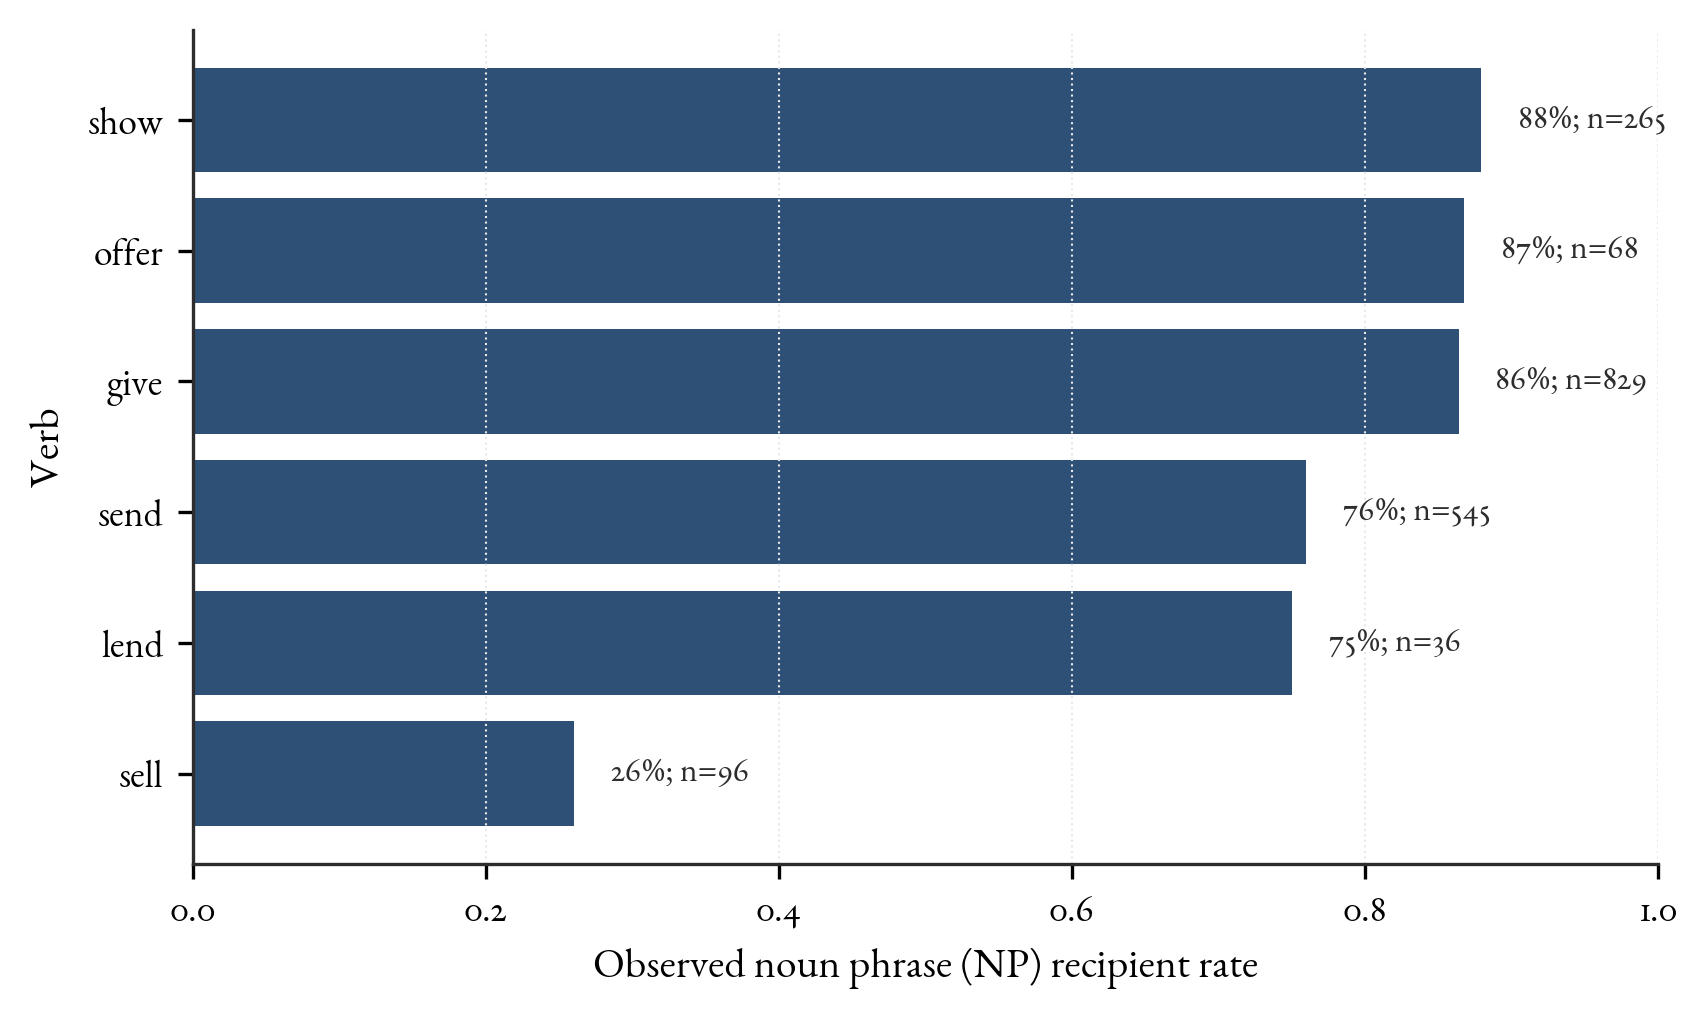
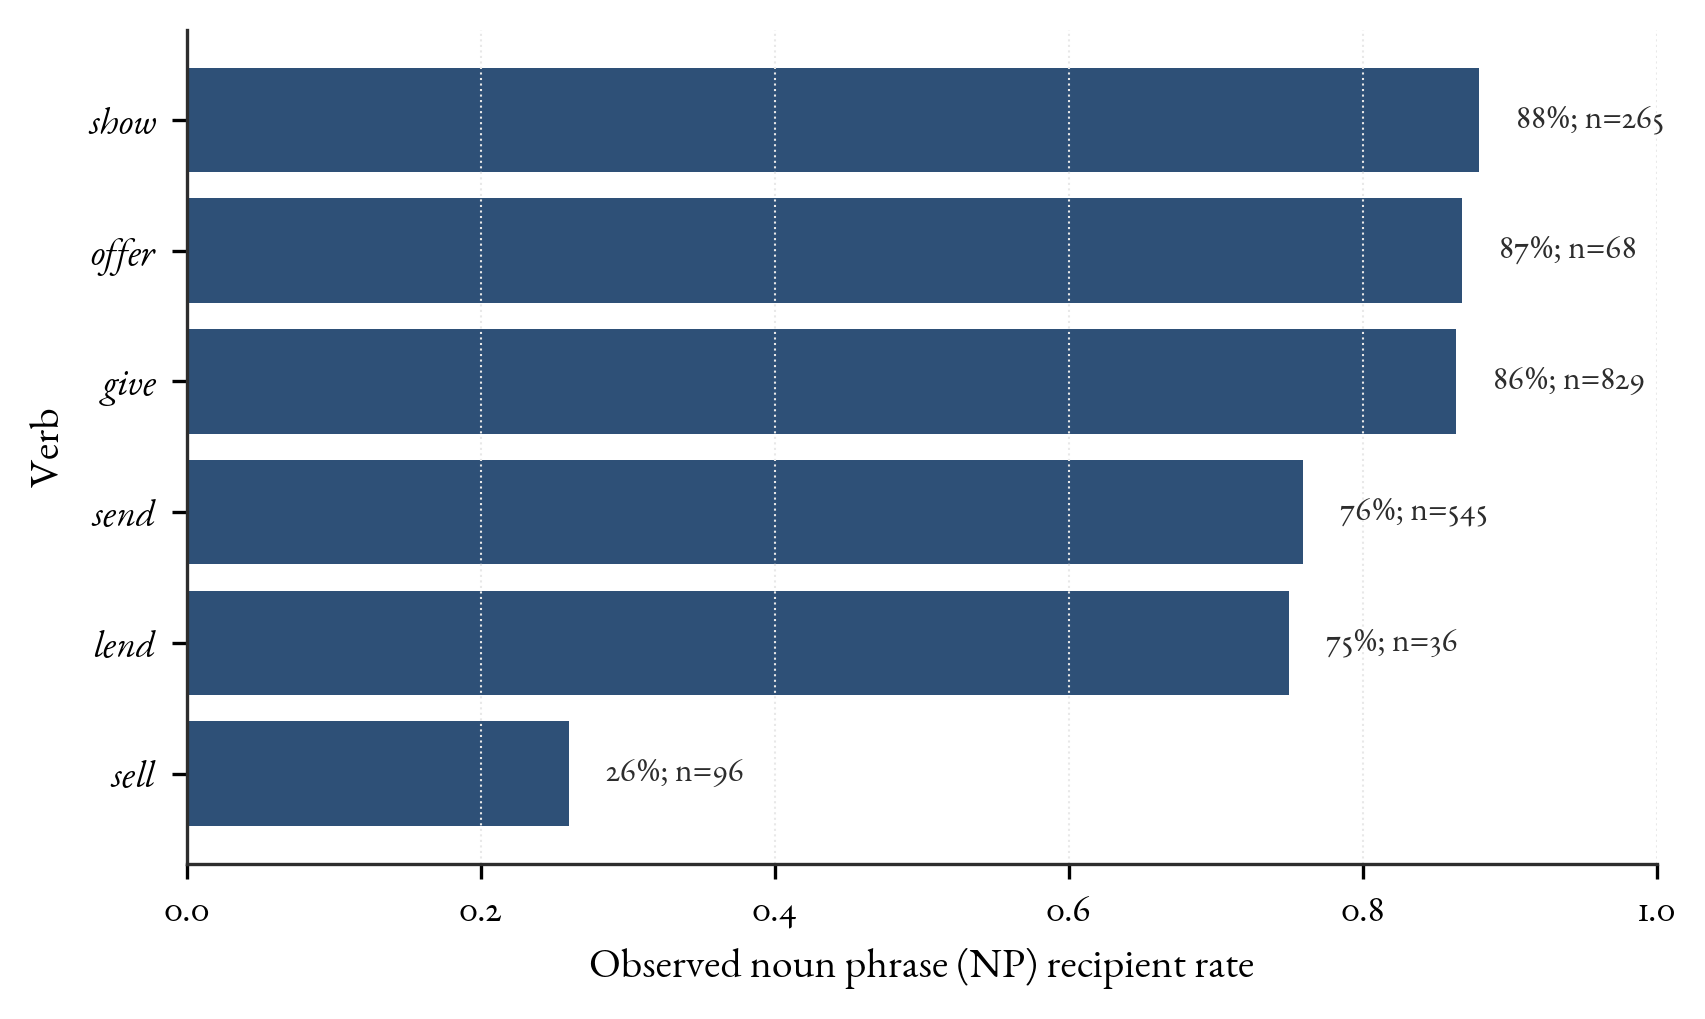
Add scope caveat, mention-style figure labels, and email draft gitignore
- Section 05: flag the six shared verbs as a scope limit on the transport
  claim; transport is tested on the high-frequency core only, not the
  marginal periphery
- Analysis 06: add mention() helper to render verb tick labels as serif
  italic (matching house-style \mention convention) via matplotlib mathtext;
  configure serif mathtext globally
- .gitignore: exclude notes/email-*.md to keep third-party correspondence
  out of the public repo
- DECISIONS.md: log transport scope caveat, figure mention style, and
  provenance/grammaticality framing decisions
- Figures and PDF rebuilt

diff --git a/analysis/06_denominator_and_figure_candidates.py b/analysis/06_denominator_and_figure_candidates.py
@@ -49,6 +49,15 @@ def percent_label(value: float) -> str:
     return f"{100 * value:.0f}%"
 
 
+def mention(verb: str) -> str:
+    """House-style mention: render a cited verb form in serif italic.
+
+    The figures are matplotlib, so \\mention maps to italic mathtext. Counts and
+    other roman text outside the math span stay upright.
+    """
+    return rf"$\mathit{{{verb}}}$"
+
+
 def make_transport_metrics(metrics: pd.DataFrame) -> None:
     labels = {
         "languageR_spoken_shared_core_marginal_to_bnc2014":
@@ -115,7 +124,7 @@ def make_observed_np_rate(verb_counts: pd.DataFrame) -> None:
     fig, ax = plt.subplots(figsize=(5.8, 3.5))
     y = range(len(data))
     ax.barh(y, data["np_rate"], color=COLORS["primary"], edgecolor="none")
-    ax.set_yticks(y, data["Verb"])
+    ax.set_yticks(y, [mention(v) for v in data["Verb"]])
     ax.set_xlim(0, 1)
     ax.set_xlabel("Observed noun phrase (NP) recipient rate")
     ax.set_ylabel("Verb")
@@ -129,7 +138,7 @@ def make_observed_np_rate(verb_counts: pd.DataFrame) -> None:
 def calibration_panel(ax, data: pd.DataFrame, colour: str, title: str) -> None:
     data = data.copy()
     x = list(range(len(data)))
-    tick_labels = [f"{row.group}\nn={row.n}" for row in data.itertuples()]
+    tick_labels = [f"{mention(row.group)}\nn={row.n}" for row in data.itertuples()]
 
     ax.vlines(x, data["observed"], data["predicted"], color="#9A9A9A", linewidth=0.7)
     ax.plot(x, data["observed"], color=COLORS["dark"], marker="o", label="observed")
@@ -200,7 +209,7 @@ def make_calibration_error(calibration: pd.DataFrame) -> None:
         ax.axvline(0, color=COLORS["dark"], linewidth=0.8)
         ax.hlines(y, 0, rows["error"], color="#9A9A9A", linewidth=0.8)
         ax.plot(rows["error"], y, marker="o", color=colour, linestyle="none")
-        ax.set_yticks(y, rows["group"])
+        ax.set_yticks(y, [mention(g) for g in rows["group"]])
         ax.invert_yaxis()
         ax.set_xlim(-lim, lim)
         ax.set_title(title)
@@ -341,6 +350,13 @@ def make_opportunity_sets() -> None:
 
 def main() -> None:
     setup(font_size=10, title_size=11, tick_size=9, legend_size=9)
+    # Serif mathtext so \mention-style italic verbs match the body font.
+    plt.rcParams.update({
+        "mathtext.fontset": "custom",
+        "mathtext.rm": "serif",
+        "mathtext.it": "serif:italic",
+        "mathtext.bf": "serif:bold",
+    })
     make_transport_metrics(read_derived("bnc2014_transport_metrics.csv"))
     make_observed_np_rate(read_derived("bnc2014_dative_verb_pattern_counts.csv"))
     calibration = read_derived("bnc2014_transport_calibration_by_verb.csv")

diff --git a/sections/05-generalization-and-acceptability.tex b/sections/05-generalization-and-acceptability.tex
@@ -63,6 +63,14 @@ just refittable. Failure, if it had occurred, would not have identified a single
 cause: variety, date, register, verb restriction, and annotation all move
 together.
 
+A scope limit bounds how far this generalizes. The six shared verbs are among
+the most frequent and canonical members of the alternation, so transport is
+tested where the conditioning profile is most likely to hold. The two datasets
+intersect only on this high-frequency core; verbs with marginal, contested, or
+idiosyncratic dative behaviour aren't shared, so they go untested here. The
+result therefore licenses a claim about the core, not about the periphery, where
+projectibility is hardest to establish.
+
 The BNC2014-native model is still stronger. On a verb-stratified BNC2014
 holdout split,
 the native core model reaches 0.202 log loss and 0.960 AUC. This gap matters.

diff --git a/DECISIONS.md b/DECISIONS.md
@@ -38,6 +38,10 @@
 
 2026-06-23 — Initialism policy: spell out initialisms at first use in manuscript prose, including table metrics, pattern codes, corpus names, licence names, and infrastructure labels. Reason: the paper should not assume that readers know project shorthand.
 
[phone redacted] — Transport scope caveat: in section 05, flag the six shared verbs as a scope limit on the transport claim, not just a harmonization fact. Reason: give, send, show, sell, offer, and lend are the most frequent and canonical datives, so transport is tested where the conditioning profile is most likely to hold. Generality to marginal, contested, or idiosyncratic dative verbs is untested because the two datasets intersect only on the high-frequency core.
+
[phone redacted] — Figure mention style: render cited verb forms in figure tick labels as serif italic (\mention equivalent) via a mention() helper and custom serif mathtext, leaving n= counts roman. Reason: house style sets mentioned forms in italic; matplotlib figures should match the body convention.
+
 2026-06-23 — Provenance interpretation: describe the BNC2014 comparison as out-of-domain transport from late-1980s/early-1990s American source data to 2012-2014 British spoken data. Reason: the comparison changes variety, period, collection design, annotation regime, and verb coverage, so success supports projectibility but mismatch does not isolate a single causal dimension.
 
 2026-06-23 — Grammaticality framing: separate target from evidence channel. Reason: Brett's grammaticality/homeostatic property cluster (HPC) writing treats acceptability judgements as noisy detector signals and grammaticality as maintained form-value coupling; the recent difference-in-differences (DiD) paper likewise warns against confusing the observed measure with the estimand. The manuscript should therefore distinguish corpus production choice, judgement preference, and grammatical possibility throughout.